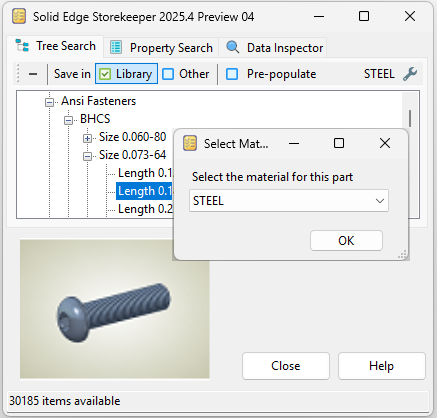
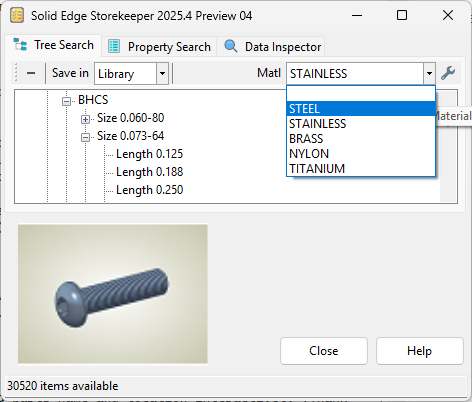
Multiple materials per category

diff --git a/Readme.md b/Readme.md
@@ -42,14 +42,12 @@ The program handles two types of standard parts.  One consists of items like fas
   <img src="media/tree_search.png">
 </p>
 
-For items like fasteners, use **Tree Search**.  Navigate to the desired item, right-click and choose an action. If the part is not already in the library, the program creates and saves it.  (Unless the toolbar `Save in` option is set to `Other`, in which case it prompts for a name and location.)  The possible actions are:
+For items like fasteners, use **Tree Search**.  Navigate to the desired item, select a material, then right-click and choose an action. If the part is not already in the library, the program creates and saves it.  (Unless the toolbar `Save in` option is set to `Other`, in which case it prompts for a name and location.)  The possible actions are:
 
 - `Add to assembly`  Adds the part to the assembly and activates the `Place part` command.
 - `Replace selected`  Replaces a selected part in the assembly.
 - `Replace all`  Replaces all occurrences of a selected part in the assembly.
 - `Fastener stack`  Opens the fastener stack dialog.  See the separate section below for details.
-
-Note, depending how the data is set up, you may be prompted to select a material after choosing an action.  Once chosen, the setting persists.  To reset it, click the material name on the toolbar.
 
 ### Property Search
 
@@ -65,7 +63,7 @@ You can set the file names according to your preference.  You can specify the ma
 
 ![Filename Formula](media/filename_formula.png)
 
-Structural shapes are not quite the same as fasteners.  While the cross section is standard, the length and the possibility of additional features is not.  Usually the part doesn't even belong in the library.  For these, you can change the `Save in` option from `Library` to `Other`.  Rather than assuming a name and location, with this setting the program prompts for both.
+Structural shapes are not quite the same as fasteners.  While the cross section is standard, the length and the possibility of additional features is not.  Usually the part doesn't even belong in the library.  For these, you can change the `Save in` option from `Library` to `Assy Dir` or `Other`.  Rather than assuming a name and location, with this setting the program prompts for both.
 
 Unlike Family of Parts, files are only created as needed.  Also, each part is stand-alone, not tied back to a master file.
 
@@ -245,6 +243,8 @@ After the components are placed, they are converted to an `Assembly group`.  Fin
 
 ## PRE-POPULATING THE LIBRARY
 
+This feature does not yet support multiple materials per category.  It is temporarily disabled.
+
 You can add items to the library ahead of time.  Enable the `Pre-populate` checkbox to get started.  
 
 Note, for items with multiple materials available, the material must be selected before starting this process.  Click on an applicable item and select the desired material when prompted.
@@ -347,6 +347,16 @@ The name of the spreadsheet variable has rules.  `XyzProperty` looks for `XyzFor
 So, for example to update the part number in the file, the program will use the information in `PartNumberFormula` to update the property defined in `PartNumberProperty`.  In this example that tells the program to make this assignment.
 
 `%{System.Document Number} = "NA"`
+
+##### Material Formula
+
+The `MaterialFormula` spreadsheet variable is slightly different than the others.  Its value can be a comma-delimited list.  For example,
+
+`STEEL`,`STAINLESS`,`STAINLESS\, PASSIVATED`,`BRASS`
+
+If the material name itself contains a comma, preceed it with a backslash as shown.  A comma-delimited list requires special handling.  This is currently the only variable that supports it.  
+
+One last thing about the `MaterialFormula`.  It can occur in multiple places in the tree.  The bottom-most definition is the one that is used.  That allows you to set a default definition, say for all fasteners, then redefine it lower in the tree for any item with different options.
 
 #### One More Level Down
 

diff --git a/release_notes.md b/release_notes.md
@@ -14,6 +14,10 @@ Feel free to report bugs and/or ideas for improvement on the [<ins>**Solid Edge 
 
 ## V2025.4
 
+We'll get right to the updates, but first a quick announcement -- we have a new **Contributor!**  Our very own **@TeeVar** built and donated a massive ISO-native dataset, compatible back to SE2019.  He also had a lot of great suggestions to enhance the capabilities of the program and make it easier to use.  Can't wait for you to see it all!
+
+On to those updates...
+
 ### Fastener Stacks
 
 Added the ability to create fastener stacks -- a grouping that consists of a fastener and related components, such as washers and nuts.  
@@ -36,9 +40,13 @@ See the [<ins>**Fastener Stack**</ins>](https://github.com/rmcanany/SolidEdgeSto
 
 Contributed by **@TeeVar.**  Thank you!
 
-Added new templates created with SE2019 for users who don't use SE2024 or later.
+Added new templates created with SE2019 for users who don't use SE2024 or later.  Included are ISO screws, nuts, washers, etc., EN structural steel, and more.  
 
-Included are ISO screws, nuts, washers, etc., EN structural steel, and more.  Even if you have a newer version of SE, you may still want to use them.  **@TeeVar** is an ISO native speaker.  His contribution should be more familiar and useful to those who work with that standard.
+<p align="center">
+  <img src="media/tree_search_SE2019.png">
+</p>
+
+Even if you have a newer version of SE, you may still want to use this data set.  **@TeeVar** is an ISO native speaker.  His contribution should be more familiar and useful to those who work with that standard.
 
 See the [<ins>**Tree Search Options**</ins>](https://github.com/rmcanany/SolidEdgeStorekeeper#tree-search-options) section of the Readme for details.
 
@@ -62,7 +70,7 @@ Added the option to have multiple materials available in a single category.  Thi
   <img src="media/select_material.png">
 </p>
 
-To set the material, simply click on an item in the tree.  If multiple materials are available, it will prompt you to select one.  The setting persists until you reset it.  To do so, click the active material name on the toolbar.
+Select the material from the drop down list.  If an item only has one material defined, it is selected automatically.  If you go to a different item in the tree and its material list contains the currently active material, the selection is retained.  If you attempt to process an item and no material has been selected, the program reports an error.
 
 See the [<ins>**Creating New Templates**</ins>](https://github.com/rmcanany/SolidEdgeStorekeeper#tree-search) section of the Readme for details.
 
@@ -72,12 +80,13 @@ Added an option to store property values of files in the library.  Set it on the
 
 ### Other
 
-- Added the ability to set standard parts name and location interactively (Thank you **@TeeVar!**).  On the toolbar, set the `Save in` option to `Other` to enable it.  Previously that option was set in the spreadsheet.
+- Added the ability to set standard parts name and location interactively (Thank you **@TeeVar!**).  On the toolbar, set the `Save in` option to `Assy Dir` or `Other` to enable it.  Previously that option was set in the spreadsheet.
 
 - Added the ability to use subdirectories in file names (Thank you again **@TeeVar!**).  The file names are specified in the spreadsheet.  To include subdirectories, simply preceed the file name with the directory names, eg. `Fasteners\BHCS\bhcs_%{Name}_%{Length}.par`.
 
 - Added an option to keep the Storekeeper window always on top (Thank you one more time **@TeeVar!**).
 
+- Temporarily disabled the `Pre-Populate` feature from the previous version (Sorry **@Seva!**).  It is not currently compatible with multiple materials per category.  In particular it had trouble when a material is valid for one selected item, but not another.  You can still use the previous version when that feature is needed.
 
 ## V2025.3
 
